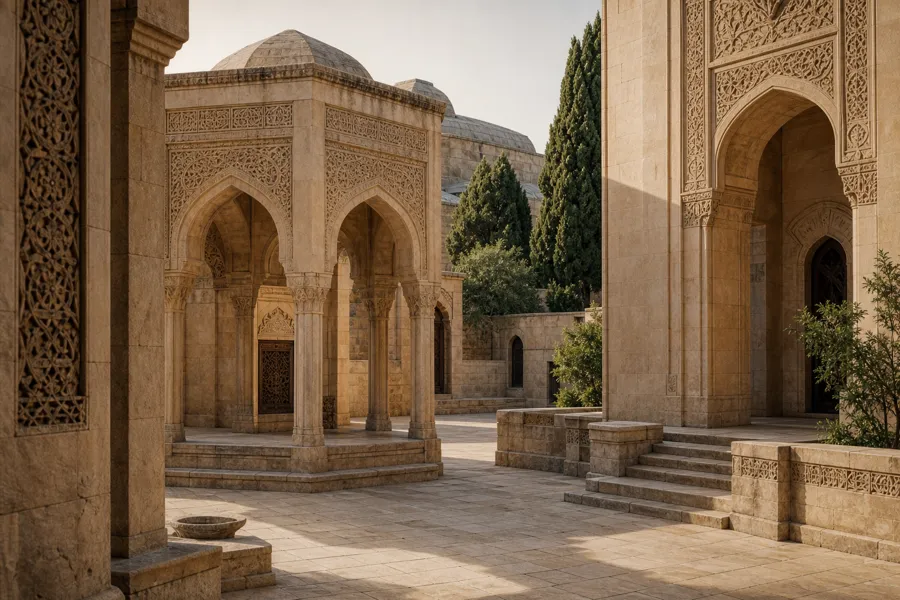
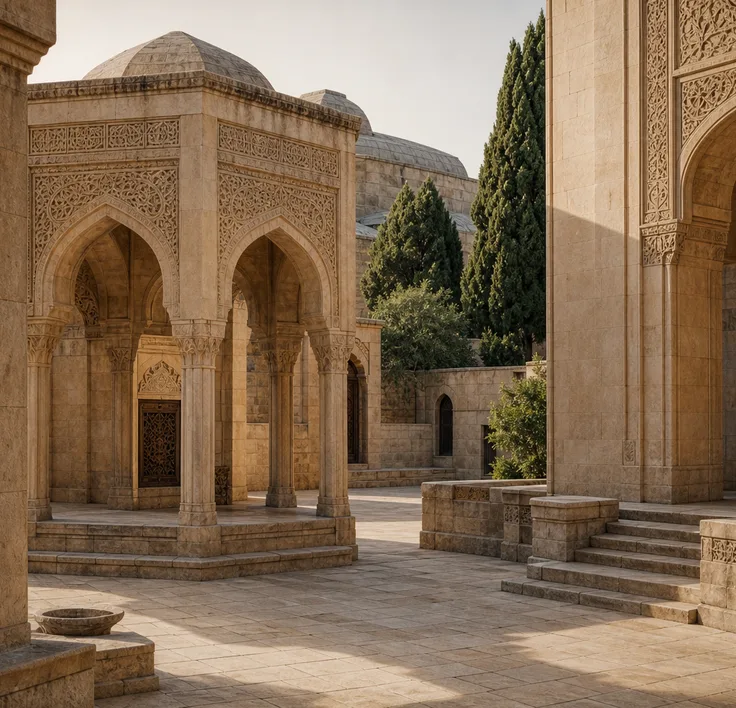
Routes: foto kropları Figma kadrına uyğunlaşdırıldı (qala kartı düzəldi), başlıq eni

diff --git a/js/routes.js b/js/routes.js
@@ -50,7 +50,7 @@ function cardMarkup(tour) {
         ${picture(src, `<img class="routes-card__photo" src="${escapeHtml(src)}" alt="${escapeHtml(title)}" loading="lazy" decoding="async" width="368" height="354">`)}
         <div class="routes-card__scrim" aria-hidden="true"></div>
         <div class="routes-card__overlay">
-          <h3 class="routes-card__title">${escapeHtml(title)}</h3>
+          <h3 class="routes-card__title"${tour.title_width ? ` style="max-width:${Number(tour.title_width)}px"` : ""}>${escapeHtml(title)}</h3>
           <div class="routes-card__badges">
             <span class="routes-card__badge"><img src="${IMG}${TYPE_ICON[tour.type] || TYPE_ICON.walk}" alt="" width="16" height="16">${escapeHtml(t("routes.type." + tour.type))}</span>
             <span class="routes-card__badge"><img src="${IMG}museum-icon-clock.svg" alt="" width="16" height="16">${escapeHtml(tour.working_hours)}</span>
